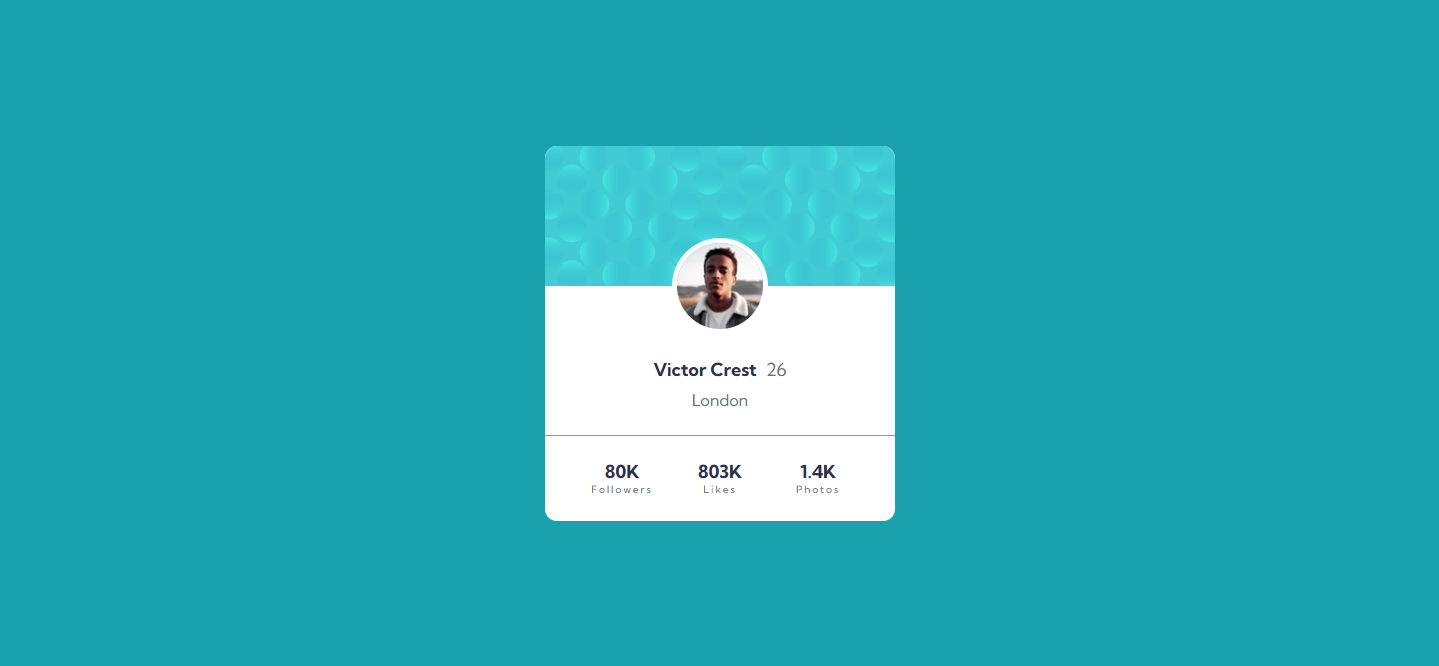
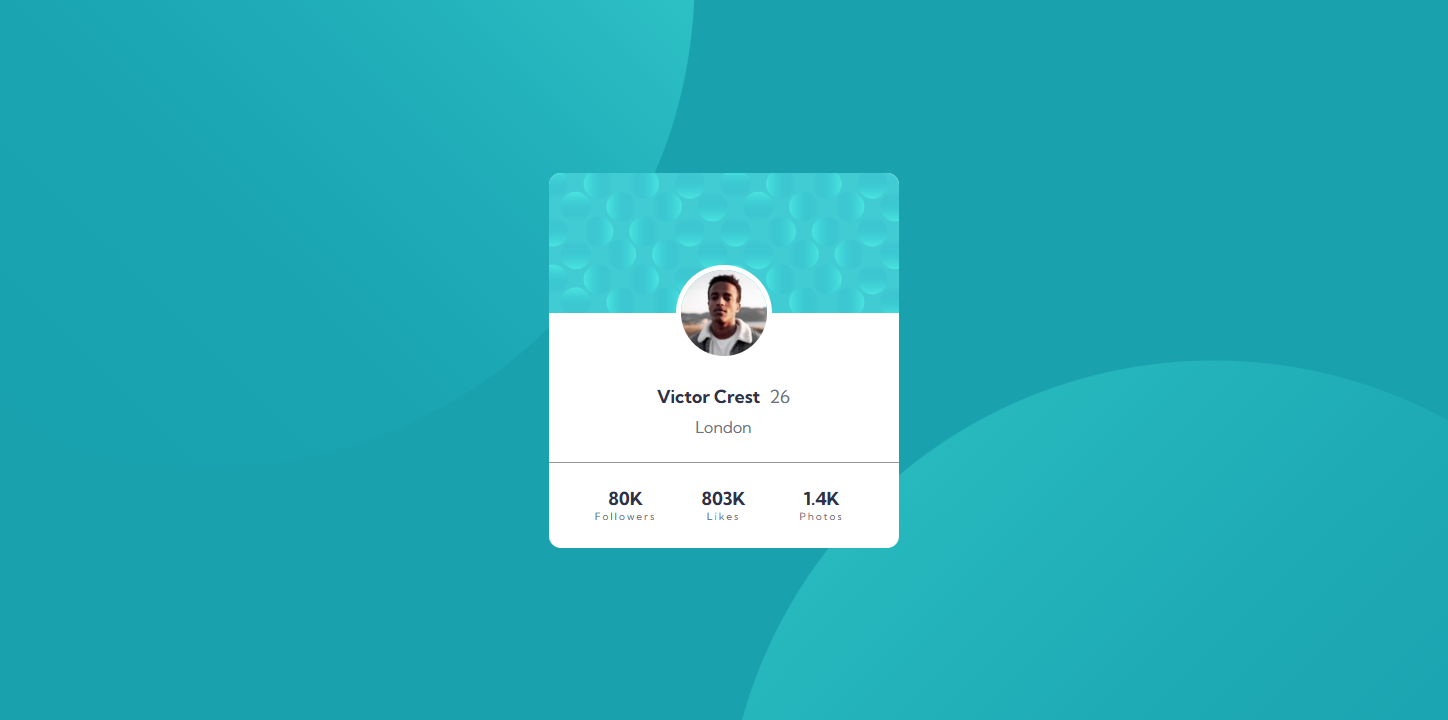
Added the missing Background Image based on design

diff --git a/styles/styles.css b/styles/styles.css
@@ -38,6 +38,9 @@ img {
 main {
     height: 100dvh;
     background-color: var(--color-dark-cyan);
+    background-image: url("../assets/images/bg-pattern-top.svg"), url("../assets/images/bg-pattern-bottom.svg");
+    background-position: right 52vw bottom 35vh, 50vw 50vh;
+    background-repeat: no-repeat;
     display: grid;
     place-items: center;
 }
